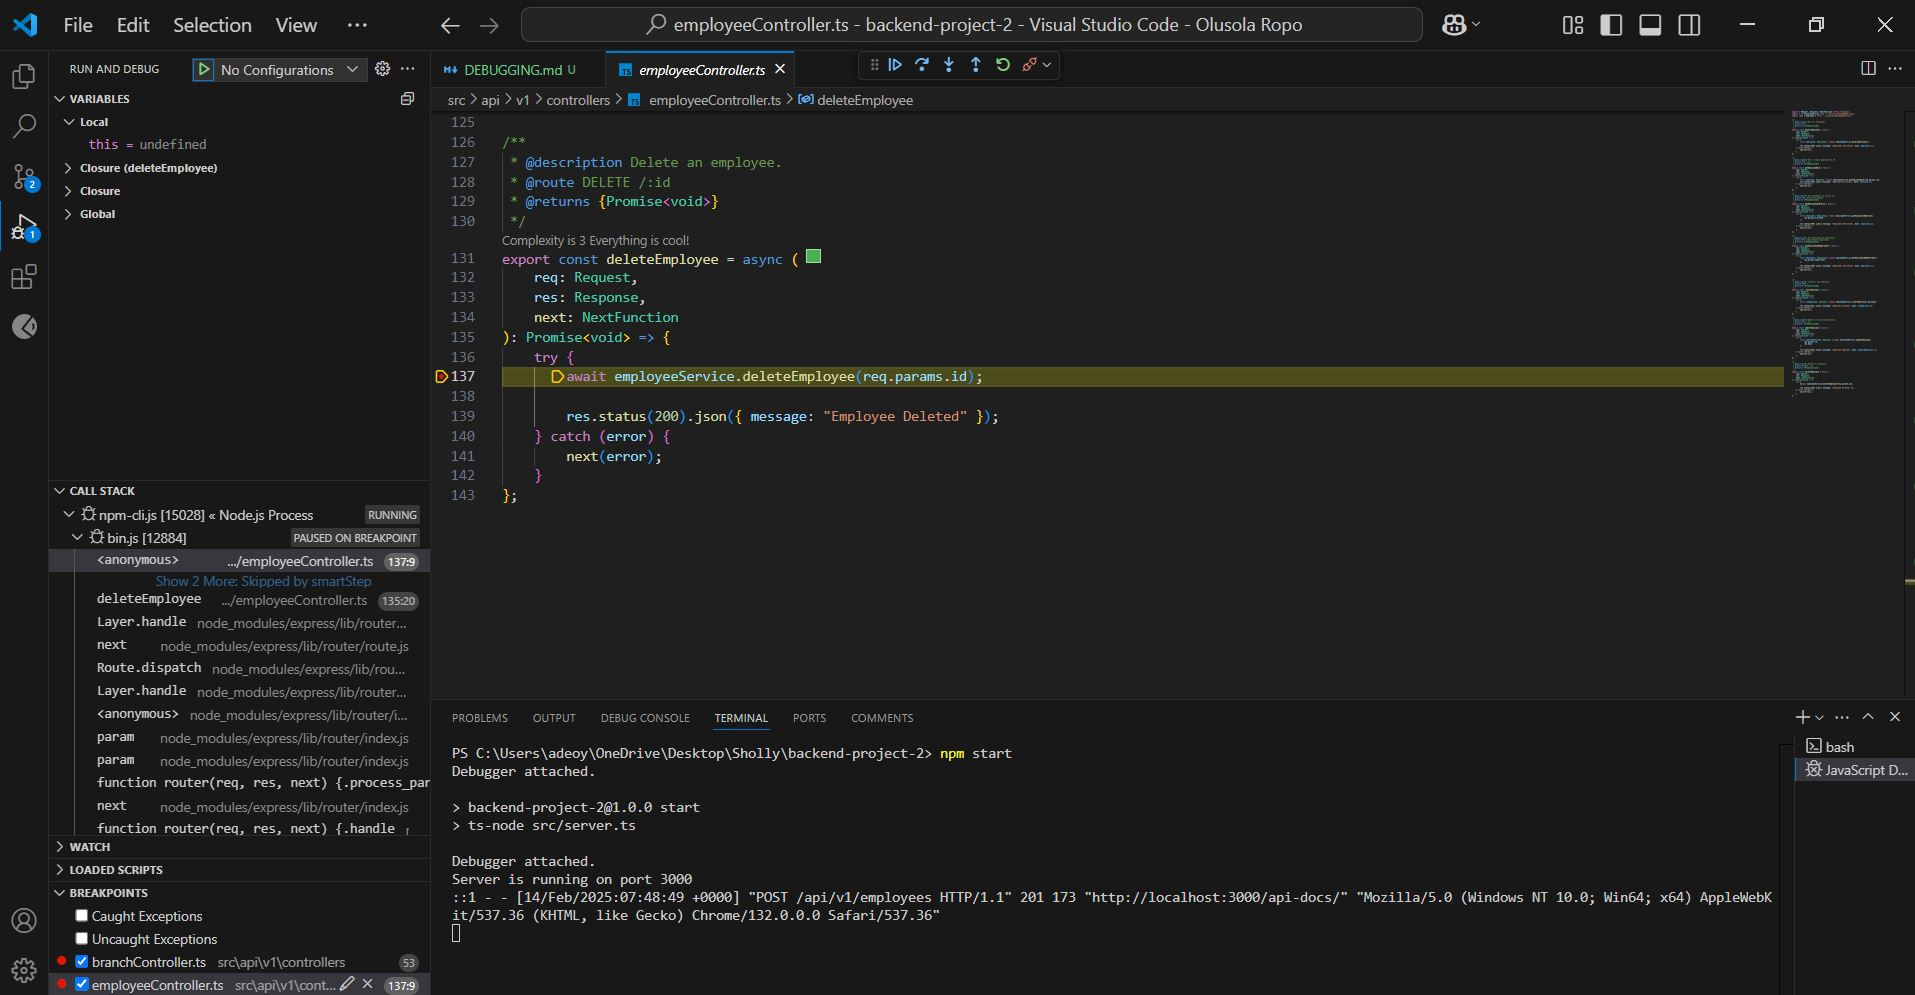
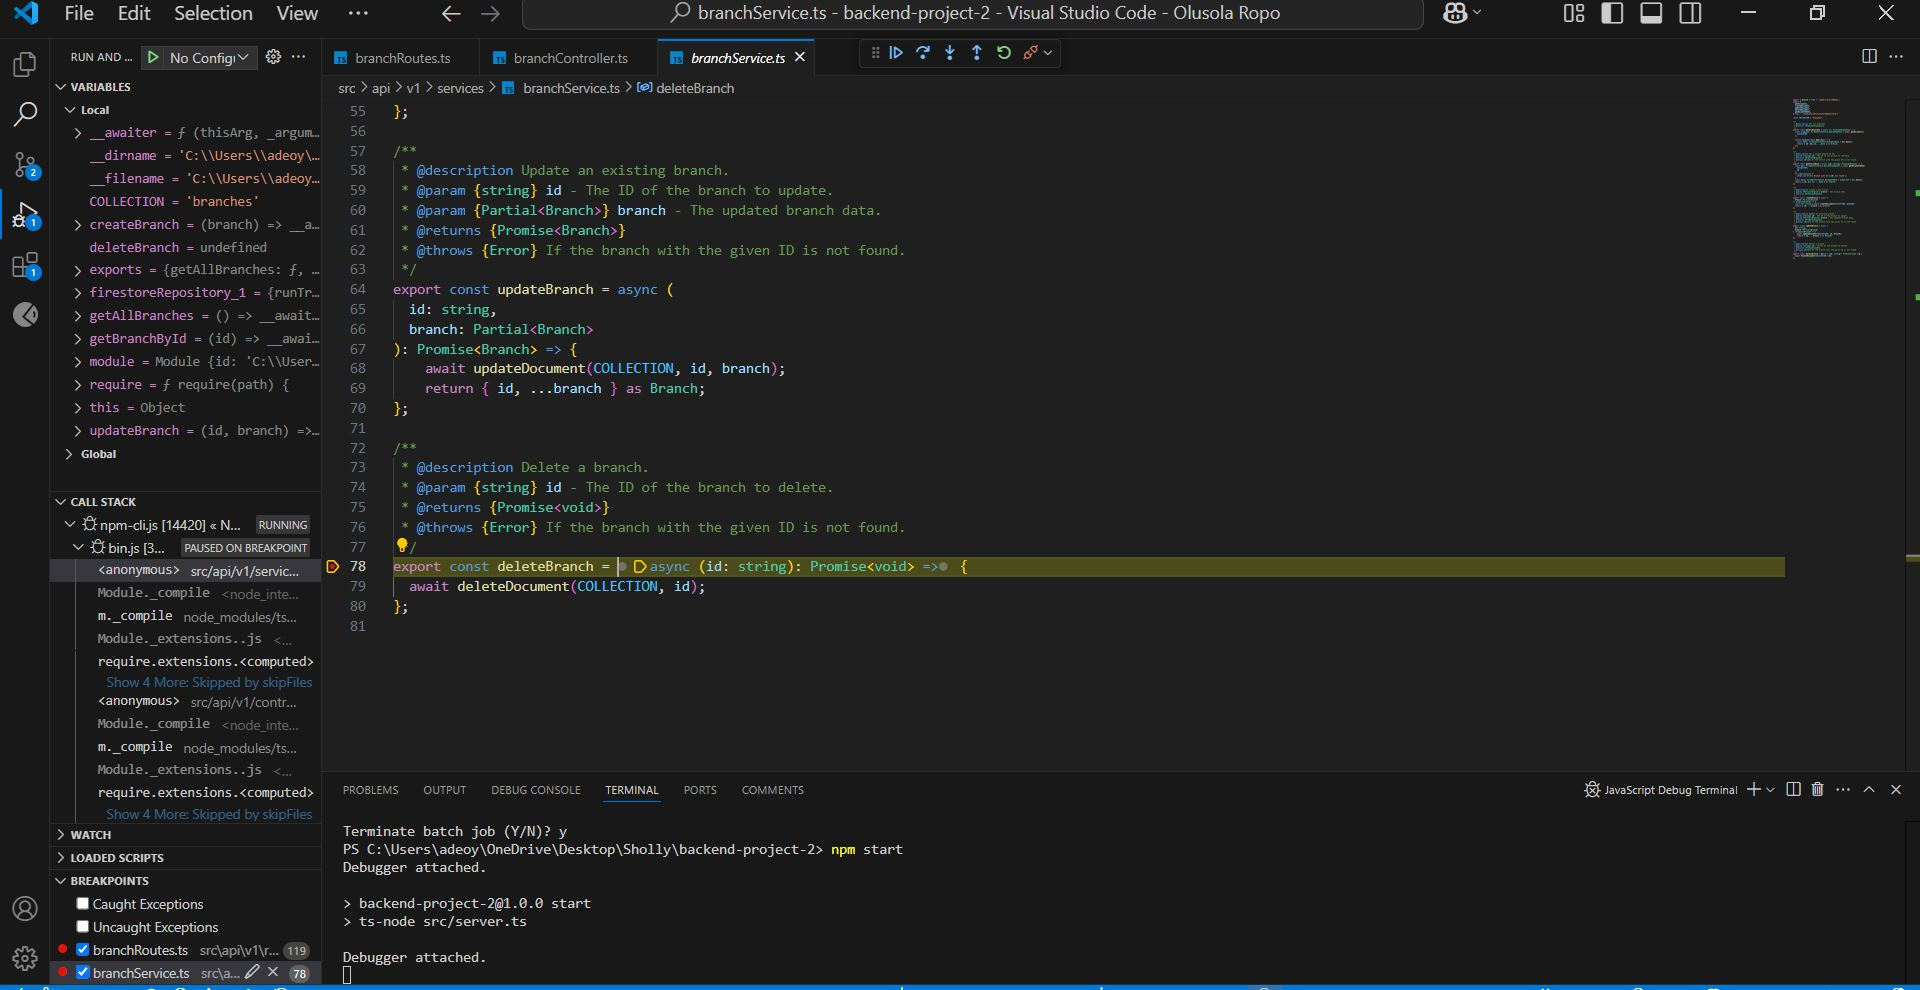
feat: added debugging

diff --git a/debugging/DEBUGGING.md b/debugging/DEBUGGING.md
@@ -1,120 +1,54 @@
 # Debugging Analysis
 
-## Scenario 1: Creating a New Branch
+## Scenario 1: Create Branch
 
-- **Breakpoint Location:** branchController.ts, line 53: `const newBranch: Branch = await branchService.createBranch(req.body);`
-- **Objective:** Analyze the branch creation process and validate request data handling
-
-### Debugger Observations
-
-- **Variable States:**
-  - `req.body`: `{ name: "Downtown Branch", address: "123 Main St", phone: "555-0123" }`
-  - `newBranch`: `{ id: "1707926841253", name: "Downtown Branch", address: "123 Main St", phone: "555-0123" }`
-
-- **Call Stack:**
-  - createBranch (branchController.ts)
-  - Express middleware handler
-  - Router dispatch
-
-- **Behavior:**
-  - Request body is received and parsed
-  - Service generates timestamp-based ID
-  - New branch object is stored in memory array
-
-### Analysis
-
-- **Key Learnings:**
-  - Request data flows smoothly through controller to service layer
-  - In-memory storage means data is temporary
-  - ID generation uses timestamp method
-
-- **Unexpected Behaviors:**
-  - No validation on required fields
-  - No duplicate check for branch names
-  - No data persistence implementation
-
-- **Areas for Improvement:**
-  - Add input validation middleware
-  - Implement proper database storage
-  - Use UUID instead of timestamp for IDs
-
-This debugging session reveals that while the basic CRUD functionality works, the system needs additional validation and persistent storage implementation.
-
-
-## Scenario 2: Deleting an Employee
-
-- **Breakpoint Location:** employeeController.ts, line 137: `await employeeService.deleteEmployee(req.params.id);`
-- **Objective:** Analyze the employee deletion process and error handling
+-   **Breakpoint Location:** branchRoutes.ts line 119
+-   **Objective:** How the validation middleware intercepts the request
 
 ### Debugger Observations
 
-- **Variable States:**
-  - `req.params.id`: "1707926841253"
-  - `index`: -1 (when employee not found) or 2 (when employee exists)
-
-- **Call Stack:**
-  - deleteEmployee (employeeController.ts)
-  - Express middleware handler
-  - Router dispatch
-
-- **Behavior:**
-  - Receives employee ID from request parameters
-  - Service layer checks employee existence
-  - If found, removes from array; if not, throws error
+-   **Variable States:** payload {"name": "Canada Branch",
+    "address": "Vancouver, Canada",
+    "phone": "12345678"}
+-   **Call Stack:** validateRequest function, create branch controller function, 
+-   **Behavior:** the payload is compared to the brnach schema before the request is passed to the controller
 
 ### Analysis
 
-- **Key Learnings:**
-  - Deletion process relies on array index finding
-  - Error handling catches non-existent employee IDs
-  - Response maintains consistent format
+-   the validate request function is called first before passing the data to the next function
+-   incorrect data threw validation errors
+-   i understand why validation is important as it prevents adding wrong data to database
 
-- **Unexpected Behaviors:**
-  - No soft delete option available
-  - No cascade deletion for related records
-  - No audit trail of deletions
+## Scenario 2: Delete Branch
 
-- **Areas for Improvement:**
-  - Implement soft delete functionality
-  - Add deletion confirmation step
-  - Log deletion operations
-
-# Debugging Analysis
-
-## Scenario 3: Getting Employees by Branch ID
-
-- **Breakpoint Location:** employeeController.ts, line 53: `const employees: Employee[] = await employeeService.getEmployeesByBranch(req.params.branchId);`
-- **Objective:** Analyze how employees are filtered by branch ID
+-   **Breakpoint Location:** branchService.ts line 78
+-   **Objective:** How the delete process occurs
 
 ### Debugger Observations
 
-- **Variable States:**
-  - `req.params.branchId`: "branch123"
-  - `employees`: `[{id: "1", name: "John", branchId: "branch123"}, ...]`
-
-- **Call Stack:**
-  - getEmployeesByBranch (employeeController.ts)
-  - Express middleware handler
-  - Router dispatch
-
-- **Behavior:**
-  - Receives branch ID from request parameters
-  - Filters employee array based on branchId match
-  - Returns filtered array of employees
+-   **Variable States:** id of branch 
+-   **Call Stack:** validateRequest, deleteBranch service function
+-   **Behavior:** the branch with the id passed is deleted from the db
 
 ### Analysis
 
-- **Key Learnings:**
-  - Filter operation is case-sensitive
-  - Returns empty array if no matches
-  - No validation of branch existence
+-   it searches for branch with that id on firstore then deletes
+-   wrong id throws error
+-   better error message for invalid id
 
-- **Unexpected Behaviors:**
-  - No pagination implementation
-  - No sorting capabilities
-  - Returns all matches without limit
+## Scenario 3: Update Employee
 
-- **Areas for Improvement:**
-  - Add pagination support
-  - Validate branch existence
-  - Add sorting and filtering options
+-   **Breakpoint Location:** employeeRoutes.ts
+-   **Objective:** how employee data update works
+
+### Debugger Observations
+
+-   **Variable States:** update payload, id of employee to be updated
+-   **Call Stack:** validateRequest function, updateEmployee Controller function
+-   **Behavior:** employee with the passed id is found and its data is replaced with the new data
+
+### Analysis
+
+-   how the put request works
+-   validation middleware also rejects invalid data
+-   I understand why the put request also needs to be validated to preserve db integrity
